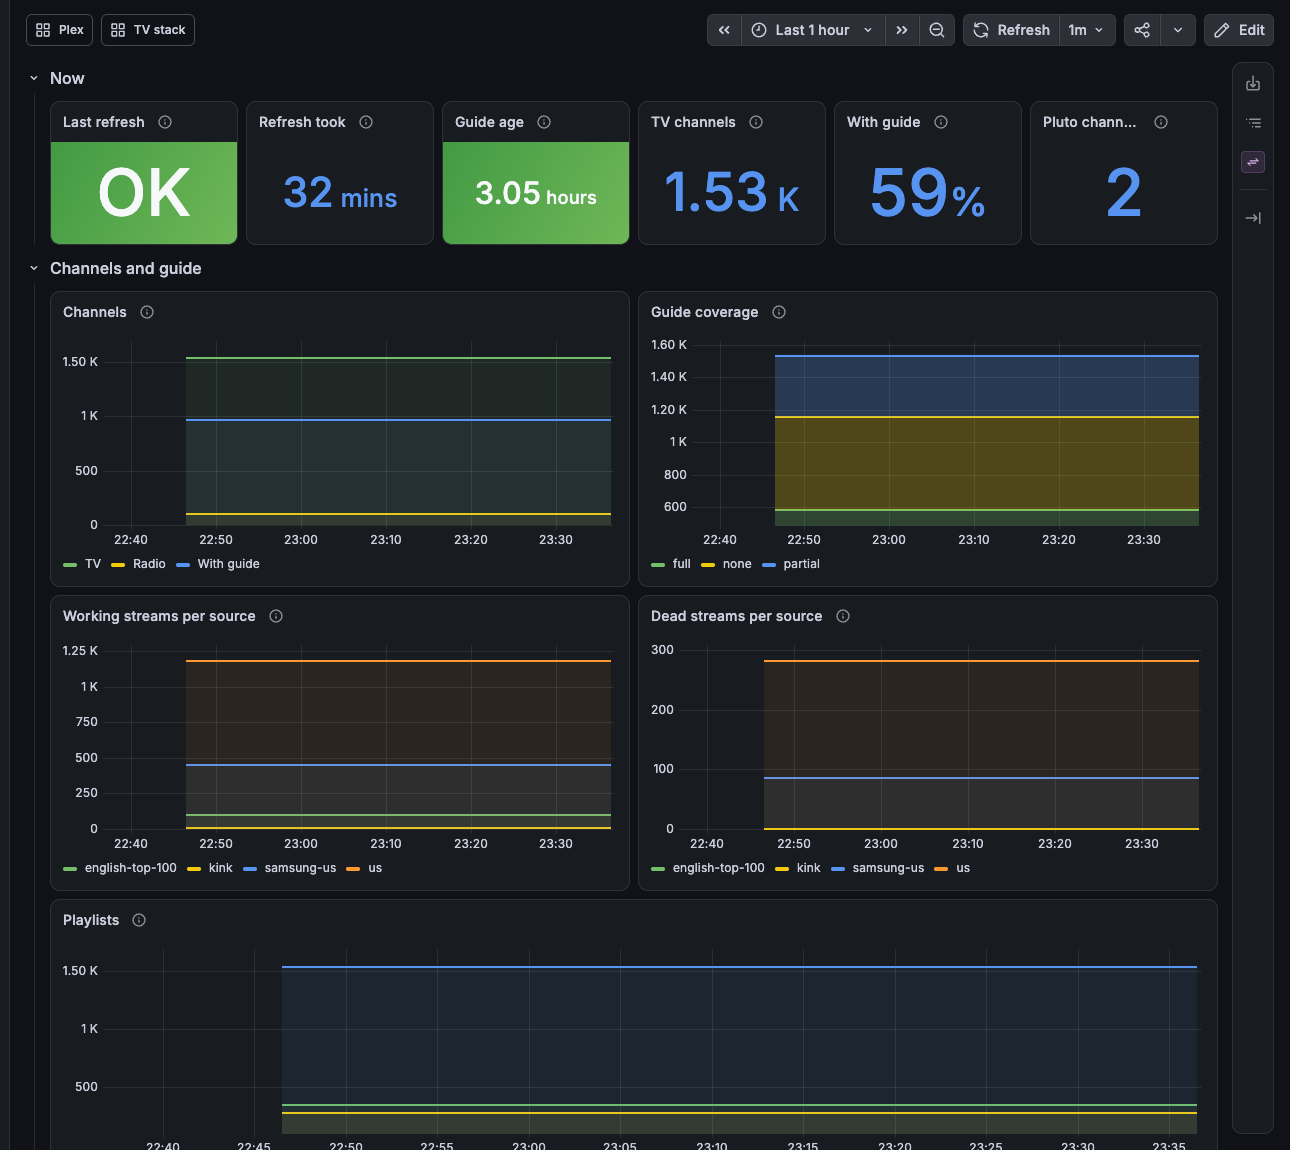
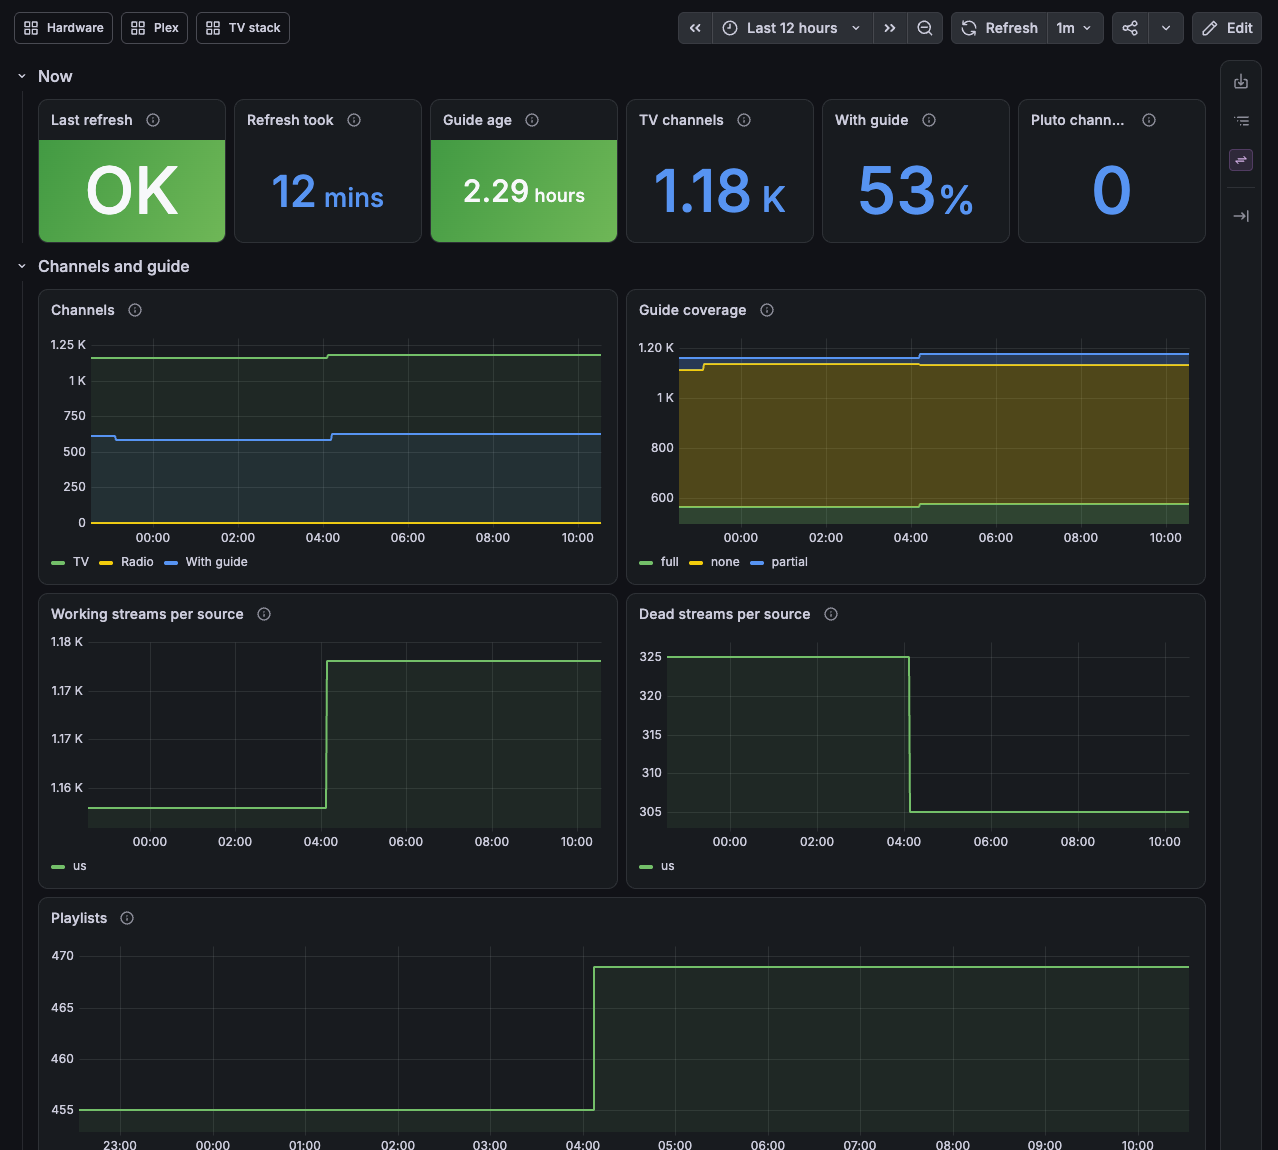
Release 0.5.4 (#101)
Sets the version to 0.5.4 and dates the changelog.

In this release:
- **Jellyfin in the stack, beta** (#98): the `jellyfin-server` profile,
Jellyfin sessions in /metrics, and a Jellyfin TV box cookbook. kia now
always makes `tv.m3u`.
- **Radio** (#93): SomaFM's channels and KEXP with its show schedule.
- **Observability:**
- the Hardware dashboard, and the GPU and disk-health exporters, with
Linux and Mac paths (#85)
  - Grafana's dashboards no longer go empty with Grafana 13.2 (#99)
- **Plex:**
- the codec warm-up waits for other scans and uses your own AAC video
(#92)
  - kia waits while a new Plex starts up (#95)
  - `scripts/nfs-media.sh` (#91)
  - new cookbook screenshots (#97)
- **Mac:** Plex's and Grafana's data in Docker volumes (#90).
- **Contributors:** `tools/mock-media` (#94, #96).
- **Image scan:** a dated exception for undici's CVE-2026-109869 in npm
(#100).

In this PR:
- **Jellyfin cookbook:** marked beta (tested on Linux and a Mac in a
browser, not yet with TV apps).
- **Observability cookbook:**
- a known problem: cAdvisor sees no containers when Docker keeps images
in containerd, the default on a new Linux install
  - "four dashboards"
- **Changelog:** "Upgrading from 0.5.3".
- **Screenshot:** the kia dashboard, from a test machine with 12 hours
of data (viewed in full; nothing personal; no metadata).

After this: tag `v0.5.4`, the GitHub release from this changelog
section, check the images, and update the servers.
[…]

diff --git a/src/kia/__init__.py b/src/kia/__init__.py
@@ -1,3 +1,3 @@
 """kodi-iptv-assistant: curate working IPTV streams and build a matching EPG."""
 
-__version__ = "0.5.4.dev0"
+__version__ = "0.5.4"

diff --git a/CHANGELOG.md b/CHANGELOG.md
@@ -1,14 +1,16 @@
 # Changelog
 
-## 0.5.4 (unreleased)
+## 0.5.4 (2026-10-24)
 
 ### Upgrading from 0.5.3
 
-Nothing to do on Linux. On a Mac with Plex in the stack, see [on a Mac](docs/configuration.md#on-a-mac): Plex there keeps its data in `plex/config`, and you can move it to a Docker volume.
+Update with `scripts/update.sh` when nobody is watching: kia restarts, and with the `monitoring` profile on, so does Grafana, which brings back its dashboards (see *Observability*). Nothing else to do on Linux.
+
+On a Mac with Plex in the stack, see [on a Mac](docs/configuration.md#on-a-mac): Plex there keeps its data in `plex/config`, and you can move it to a Docker volume.
 
 ### Jellyfin
 
-- New `jellyfin-server` profile: Jellyfin in kia's stack, for a home TV box on free software ([Jellyfin TV box](docs/cookbooks/jellyfin-box.md)). Jellyfin reads kia's playlist and guide from the web server directly, with no Threadfin and no channel limit. It runs as your user, with a read-only system and no capabilities; your media folder is read-only to it. On a Mac, the installer keeps its database in a Docker volume, like Plex's. New settings: `KIA_JELLYFIN_ADVERTISE`, `KIA_JELLYFIN_PORT`, `KIA_JELLYFIN_NAME` (the server's name, `kia-tv-box` unless you change it), `KIA_JELLYFIN_IMAGE`, `KIA_JELLYFIN_CONFIG`, and `KIA_JELLYFIN_CACHE`.
+- New, in beta: the `jellyfin-server` profile, Jellyfin in kia's stack, for a home TV box on free software ([Jellyfin TV box](docs/cookbooks/jellyfin-box.md)). It's tested from start to finish on Linux and a Mac in a web browser, but not yet with Jellyfin's TV and phone apps. Jellyfin reads kia's playlist and guide from the web server directly, with no Threadfin and no channel limit. It runs as your user, with a read-only system and no capabilities; your media folder is read-only to it. On a Mac, the installer keeps its database in a Docker volume, like Plex's. New settings: `KIA_JELLYFIN_ADVERTISE`, `KIA_JELLYFIN_PORT`, `KIA_JELLYFIN_NAME` (the server's name, `kia-tv-box` unless you change it), `KIA_JELLYFIN_IMAGE`, `KIA_JELLYFIN_CONFIG`, and `KIA_JELLYFIN_CACHE`.
 - kia's metrics count what Jellyfin plays, like Plex: `kia_jellyfin_up`, `kia_jellyfin_sessions`, and `kia_jellyfin_session_info`, with `KIA_JELLYFIN_URL` and `KIA_JELLYFIN_TOKEN` (an API key from Jellyfin) set. Any Jellyfin works, in the stack or not. Its players get pseudonyms from the same list as Plex's.
 - kia makes the TV-only playlist (`tv.m3u`) always, not only when your list has radio, so the address Jellyfin and other players are set up with keeps working.
 - The [Jellyfin guide](docs/jellyfin.md) is checked against Jellyfin 12.3, says how often Jellyfin reads the guide again, and explains channel names that lose a leading number.
@@ -38,6 +40,10 @@ Nothing to do on Linux. On a Mac with Plex in the stack, see [on a Mac](docs/con
 - Plex's database broke on a Mac. Docker there runs in a Linux machine of its own, and reaches the kia folder through a file share that Plex's database doesn't survive: scanning a library logged hundreds of database errors and left the database damaged. On a Mac, the installer now keeps Plex's data (`KIA_PLEX_CONFIG=plex-config`) and Grafana's (`KIA_GRAFANA_DATA=grafana-data`) in Docker volumes, inside Docker's own machine. Linux is unchanged.
 - kia reads the token that Plex in the stack saved when it was claimed. It found it only in `plex/config` in the kia folder, so a `KIA_PLEX_CONFIG` somewhere else, or a volume, left kia without it. Now kia gets Plex's settings, read-only, from wherever `KIA_PLEX_CONFIG` puts them.
 - Uninstalling is now `docker compose down --rmi all --volumes`, so the volumes go too.
+
+### Known problem
+
+- On a new Docker install on Linux, which keeps images in containerd, cAdvisor can't see the containers, so the TV stack dashboard's container graphs are empty. The computer's own graphs work. To be fixed in 0.5.5.
 
 ## 0.5.3 (2026-10-23)
 

diff --git a/docs/cookbooks/observability.md b/docs/cookbooks/observability.md
@@ -105,7 +105,7 @@ The dashboard's buttons lead to it from the other three.
 
 Prometheus picks new files up within a few minutes, without a restart.
 
-**Your own dashboards.** Put Grafana dashboard JSON files in `monitoring/dashboards/`; they appear in Grafana's *Local* folder. Edits you make to kia's three dashboards in Grafana aren't kept, because they're reloaded from kia's files; save a copy (*Save as*) to change one.
+**Your own dashboards.** Put Grafana dashboard JSON files in `monitoring/dashboards/`; they appear in Grafana's *Local* folder. Edits you make to kia's four dashboards in Grafana aren't kept, because they're reloaded from kia's files; save a copy (*Save as*) to change one.
 
 ## Good to know
 
@@ -121,5 +121,7 @@ Prometheus picks new files up within a few minutes, without a restart.
 **Grafana won't start: "address already in use".** Something else has port 8788. Set `KIA_GRAFANA_PORT` to another one, such as `8798`, and run `docker compose up -d`.
 
 **The Plex dashboard says "Not answering".** kia can't reach Plex, or the token is wrong. Check `KIA_PLEX_URL` and `KIA_PLEX_TOKEN` in `.env`; the [Plex guide](../plex.md#4-add-threadfin-to-plex) shows how to find a token. After a change, run `docker compose up -d`.
+
+**The TV stack dashboard has no containers, and its Compose project list is empty.** cAdvisor can't see Docker's containers when Docker keeps its images in containerd, which a new Docker install on Linux does (`docker info` shows `Storage Driver: overlayfs`; older installs show `overlay2`). The computer's own graphs still work. This is a known problem in kia 0.5.4, to be fixed in the next version.
 
 **Forgot Grafana's password, or changed `KIA_GRAFANA_PASSWORD`.** Grafana reads that setting (or makes its `admin-password.txt`) only the first time it starts. Set the one you want, then run `docker compose exec grafana grafana cli admin reset-admin-password "$(grep ^KIA_GRAFANA_PASSWORD= .env | cut -d= -f2-)"`.

diff --git a/docs/cookbooks/jellyfin-box.md b/docs/cookbooks/jellyfin-box.md
@@ -2,6 +2,8 @@
 
 [Jellyfin](https://jellyfin.org) is free software for your movies, shows, and music, with live TV built in. This guide runs it next to kia on one computer, so every Jellyfin app in the house gets kia's channels and guide, plus your own media. Jellyfin reads kia's playlist and guide directly, so there's no Threadfin and no channel limit.
 
+> **Beta.** This guide was tested from start to finish on Linux and on a Mac, with Jellyfin 12.3 in a web browser. It hasn't been tried with Jellyfin's TV and phone apps yet. If something doesn't work, please [open an issue](https://github.com/southsidedean/kodi-iptv-assistant/issues).
+
 What stays on disk, so nothing is lost when the containers restart or update:
 
 | Folder (in the kia folder) | What's in it | Set in `.env` |
